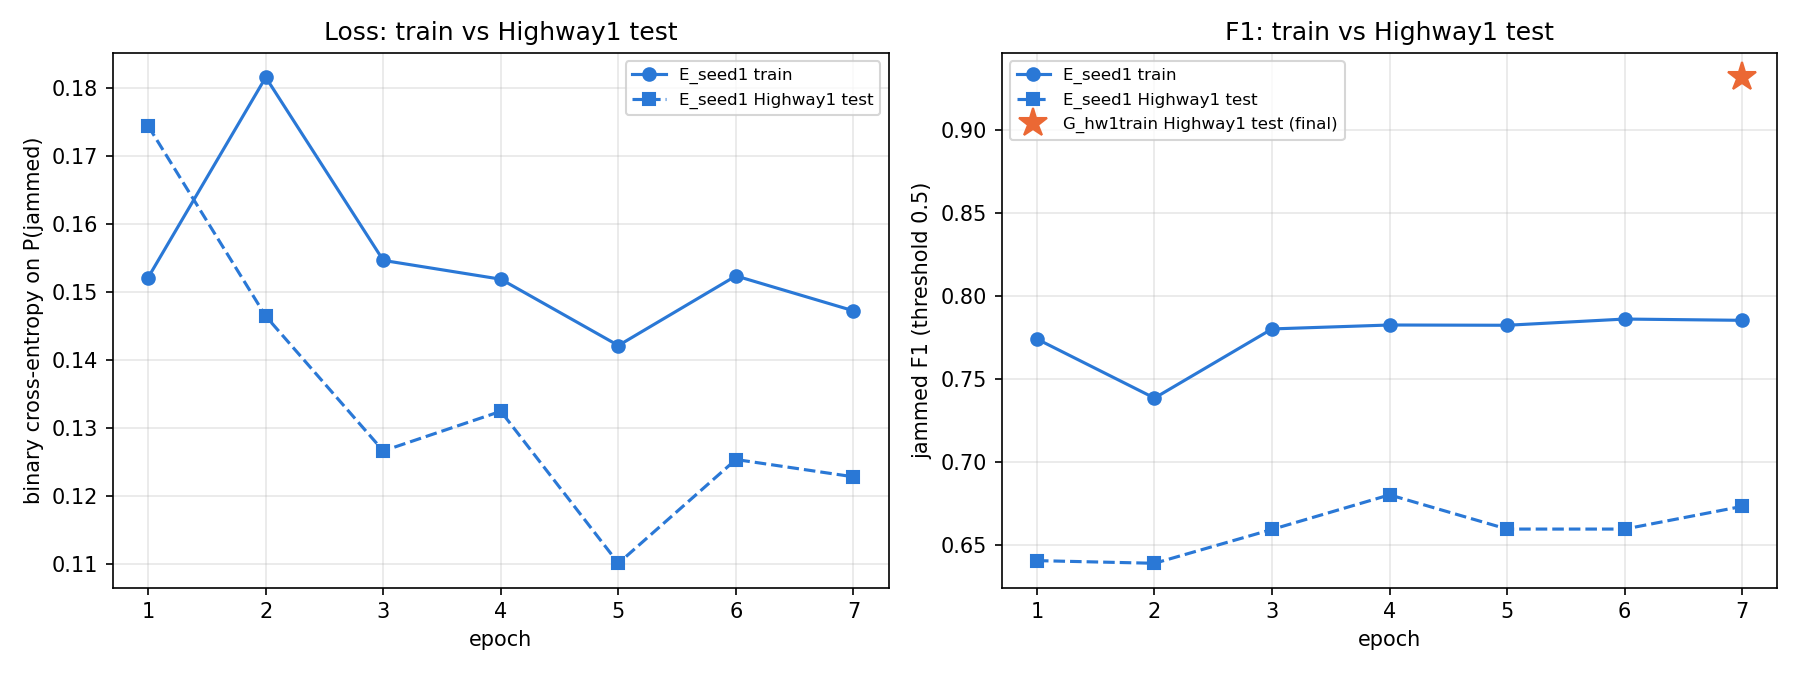
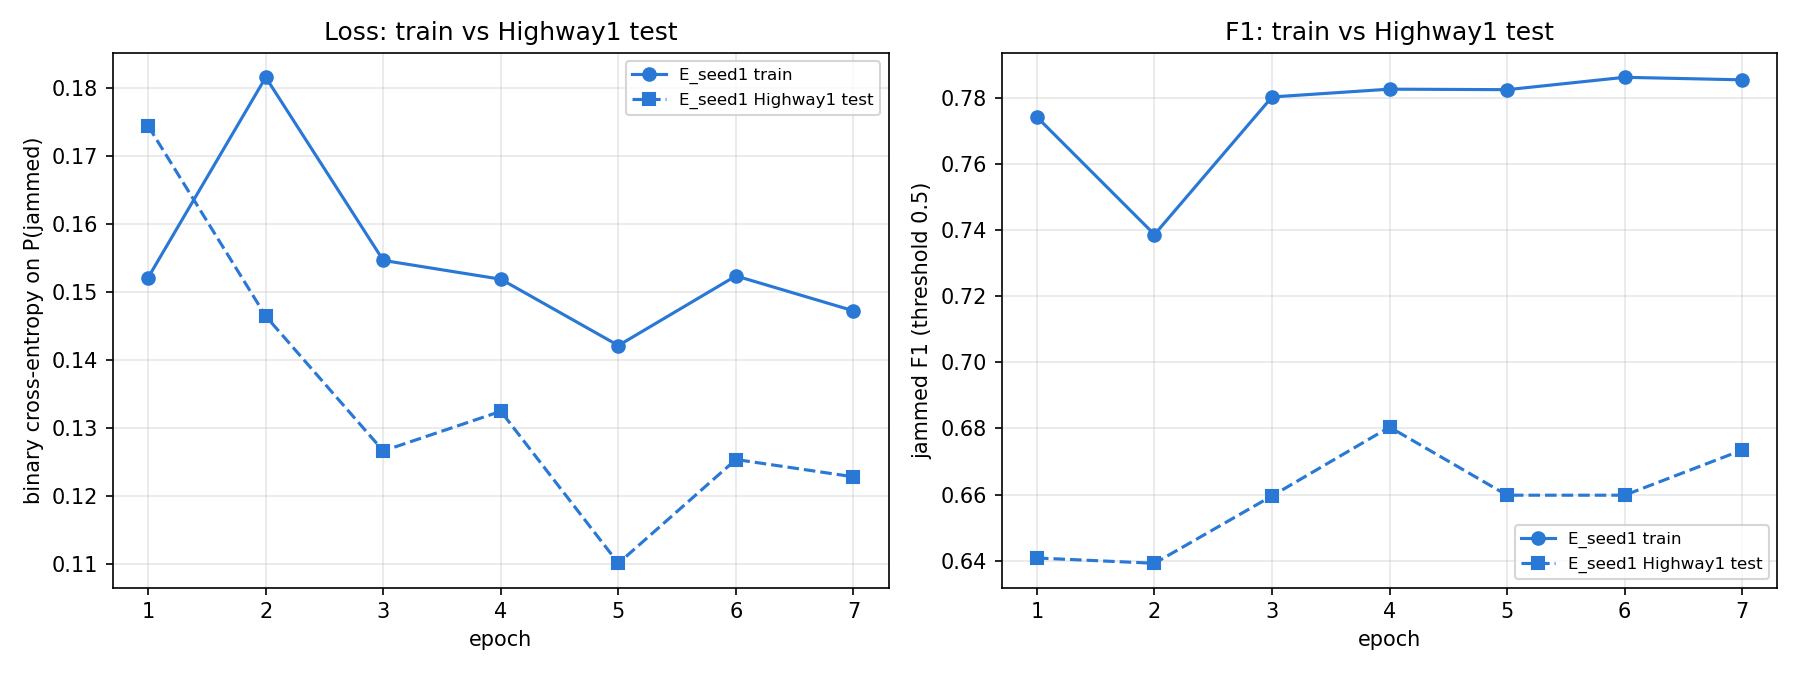
Plot train vs test curves for the E repeat only

diff --git a/experiments/plot_curves.py b/experiments/plot_curves.py
@@ -1,7 +1,7 @@
 """
 Plot train vs Highway1 test curves per epoch from cross_site_vit.py result files.
 
-    python experiments/plot_curves.py runs/E_seed1.json runs/G_hw1train_seed1.json -o curves.png
+    python experiments/plot_curves.py runs/E_seed1.json -o curves.png
 """
 
 import argparse

diff --git a/experiments/README.md b/experiments/README.md
@@ -21,7 +21,7 @@ python experiments/cross_site_vit.py --cache /path/to/cache --out runs --name G_
     --synth-min-db 12 --synth-relative-row --spur-p 0.3 --hw1-train
 
 # 4. train vs Highway1 test curves per epoch
-python experiments/plot_curves.py runs/E_seed1.json runs/G_hw1train.json -o train_test_curves.png
+python experiments/plot_curves.py runs/E_seed1.json -o train_test_curves.png
 ```
 
 ## Library equivalents
@@ -100,8 +100,8 @@ Highway1), but uses the official `train.txt` / `test.txt` split instead of 15% o
 
 ![train vs test curves](train_test_curves.png)
 
-Train vs Highway1 test per epoch for the E repeat (G was trained before per-epoch curves were logged, so
-only its final test F1 is shown). The train loss sits above the test loss because ~8% of training samples
+Train vs Highway1 test per epoch for the E repeat (G was trained before per-epoch curves were logged, so it
+has no curve). The train loss sits above the test loss because ~8% of training samples
 are jammed vs 1.5% of Highway1 test samples, so it reflects the base rate rather than overfitting.
 
 What mattered:
